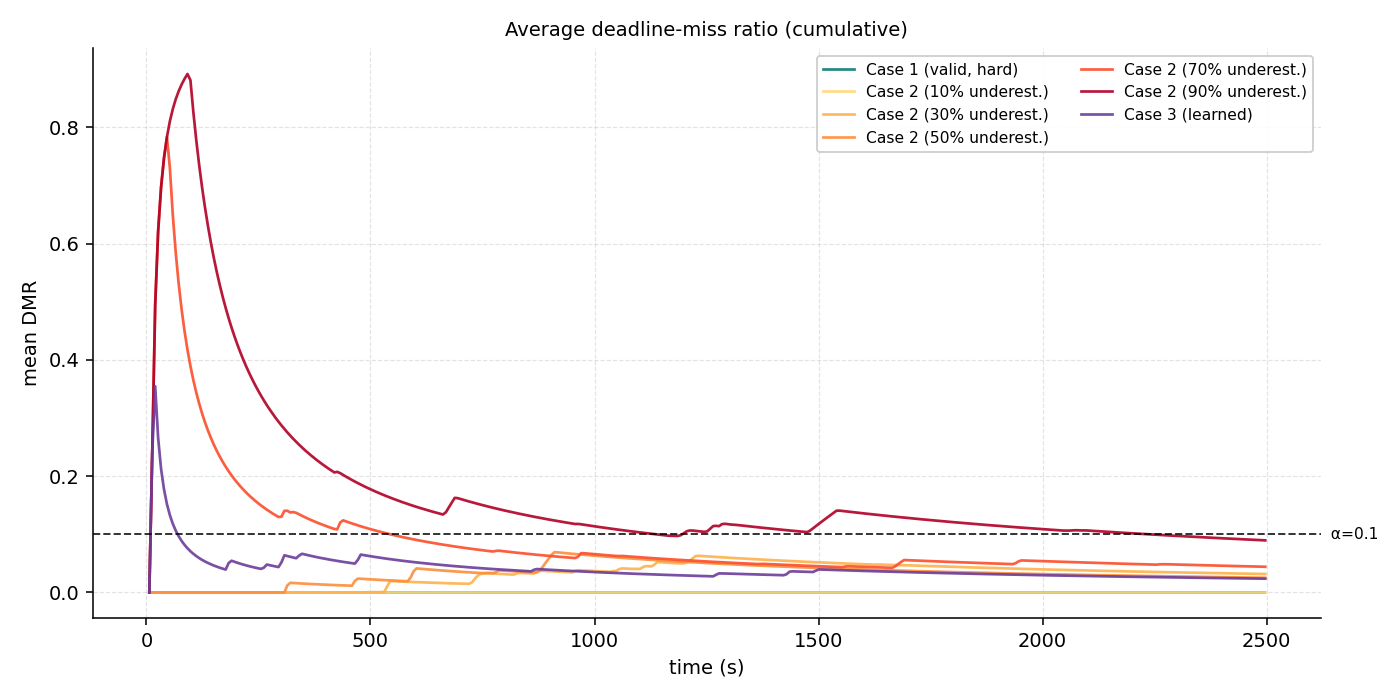
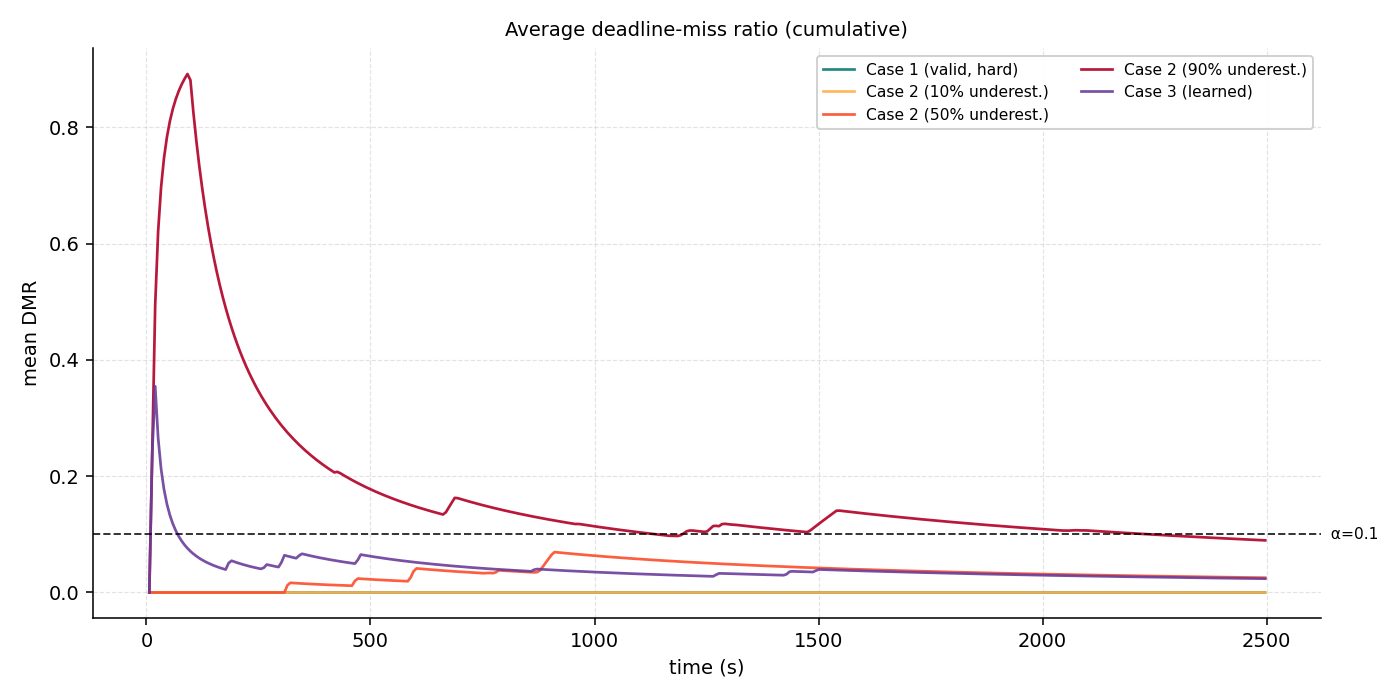
Figures: keep Case 2 at 10/50/90% underestimation only

diff --git a/scripts/fig_three_cases.py b/scripts/fig_three_cases.py
@@ -36,13 +36,13 @@ OUT_ROOT = os.path.join(ROOT, "outputs", "fig3cases")
 FIG_DIR = os.path.join(ROOT, "paper_results", "figures")
 DURATION_MS = 2_500_000
 
-UNDEREST = [0.1, 0.3, 0.5, 0.7, 0.9]           # Case-2 WCET underestimation levels
+UNDEREST = [0.1, 0.5, 0.9]                      # Case-2 WCET underestimation levels
 ALPHA = 0.1                                     # target for Cases 2 & 3
 
 # --- colors: Case 1 / Case 3 are distinct hues; Case 2 is ONE hue, light->dark by invalidity.
 C1_COLOR = "#0B7A75"   # teal  (hard guarantee)
 C3_COLOR = "#6A3D9A"   # purple (learned)
-C2_RAMP = ["#FED976", "#FEB24C", "#FD8D3C", "#FC4E2A", "#B10026"]  # YlOrRd 10%->90%
+C2_RAMP = ["#FEB24C", "#FC4E2A", "#B10026"]  # YlOrRd 10% / 50% / 90%
 
 
 def cases():
